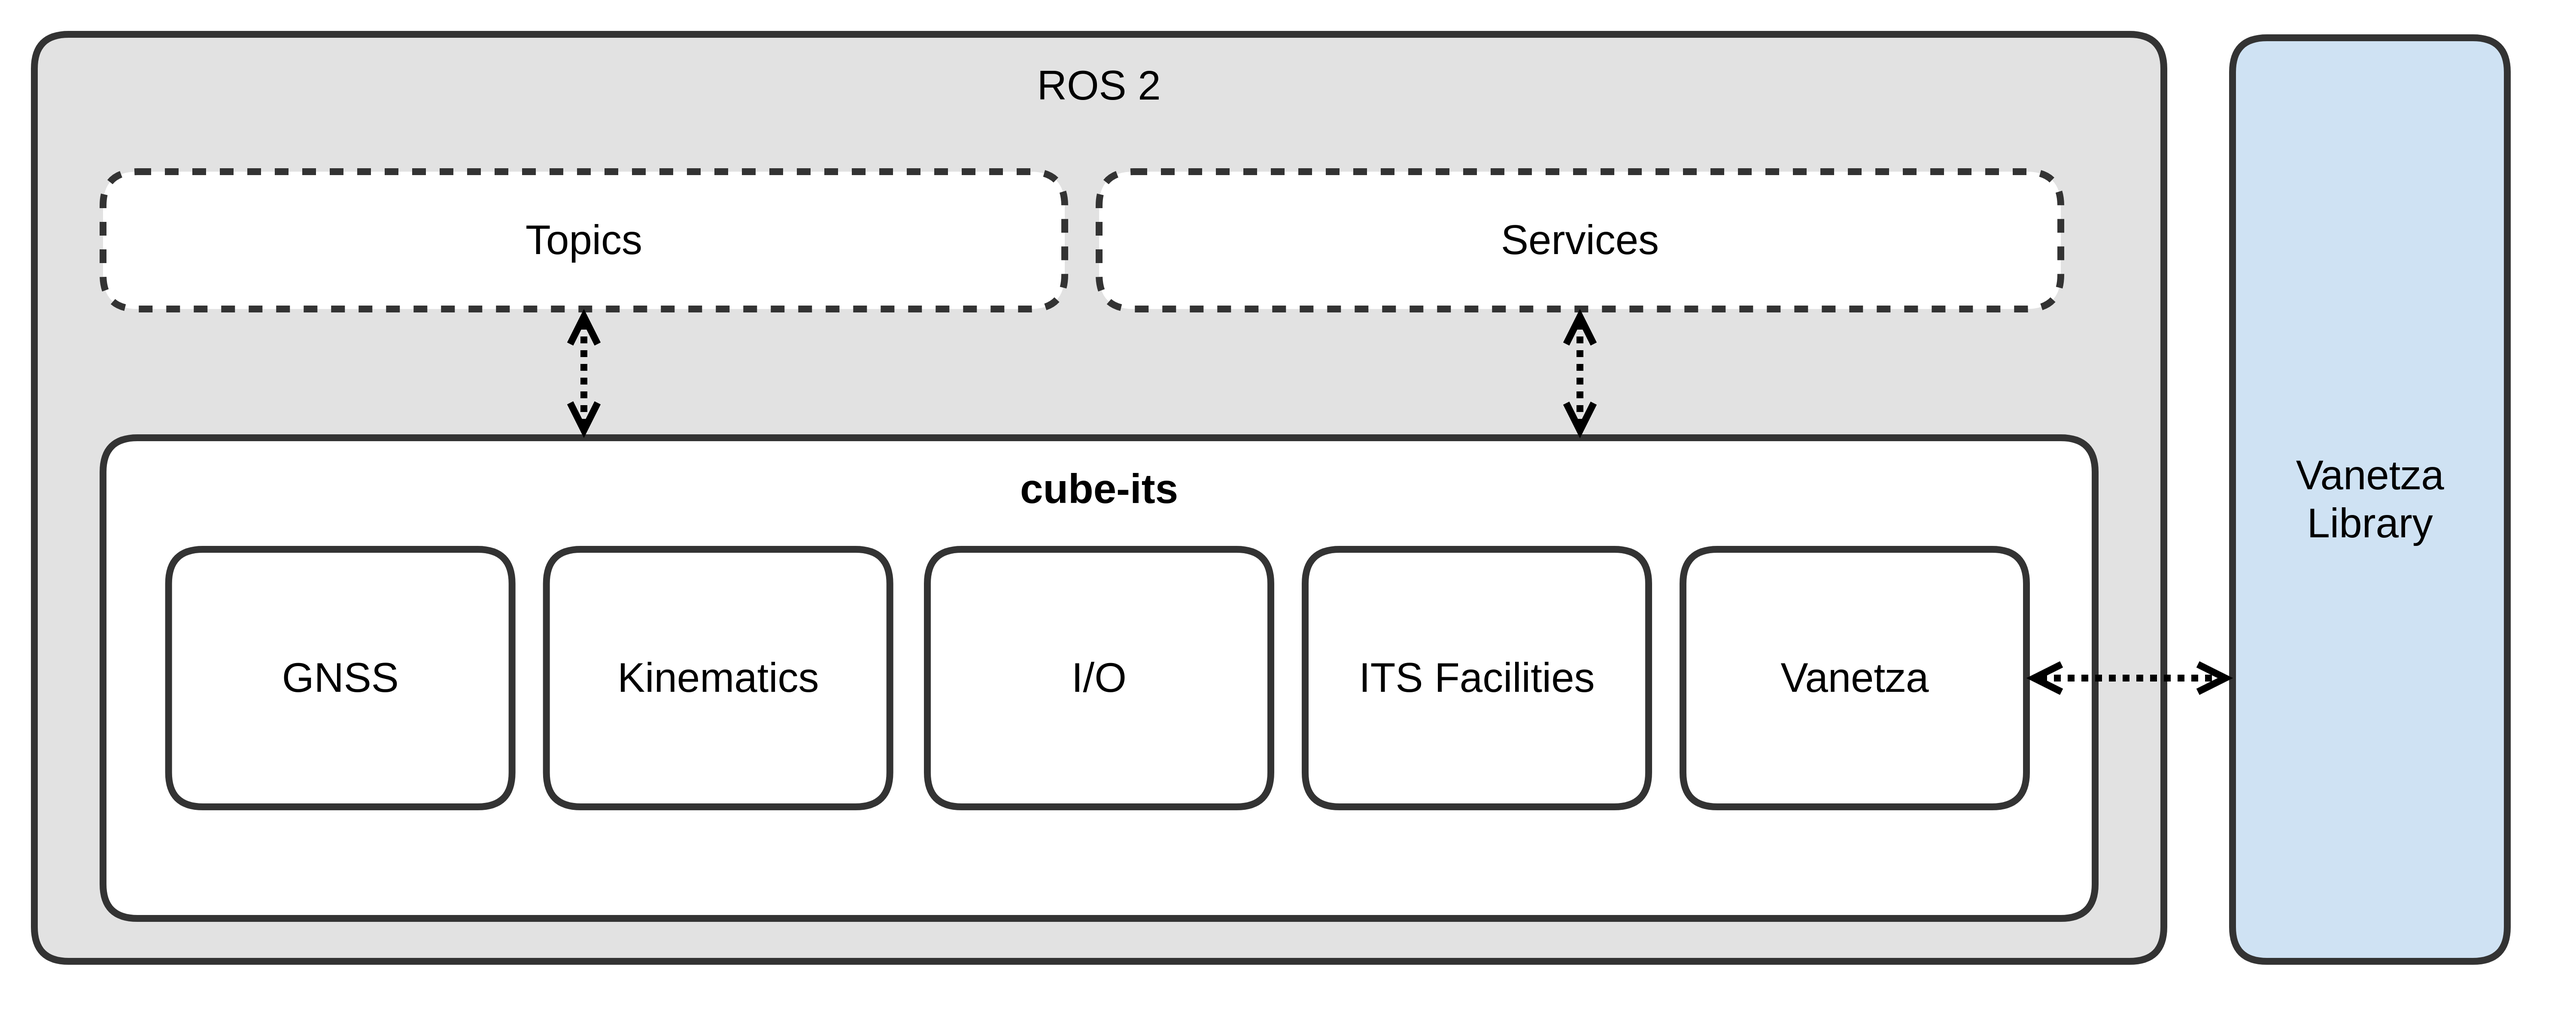
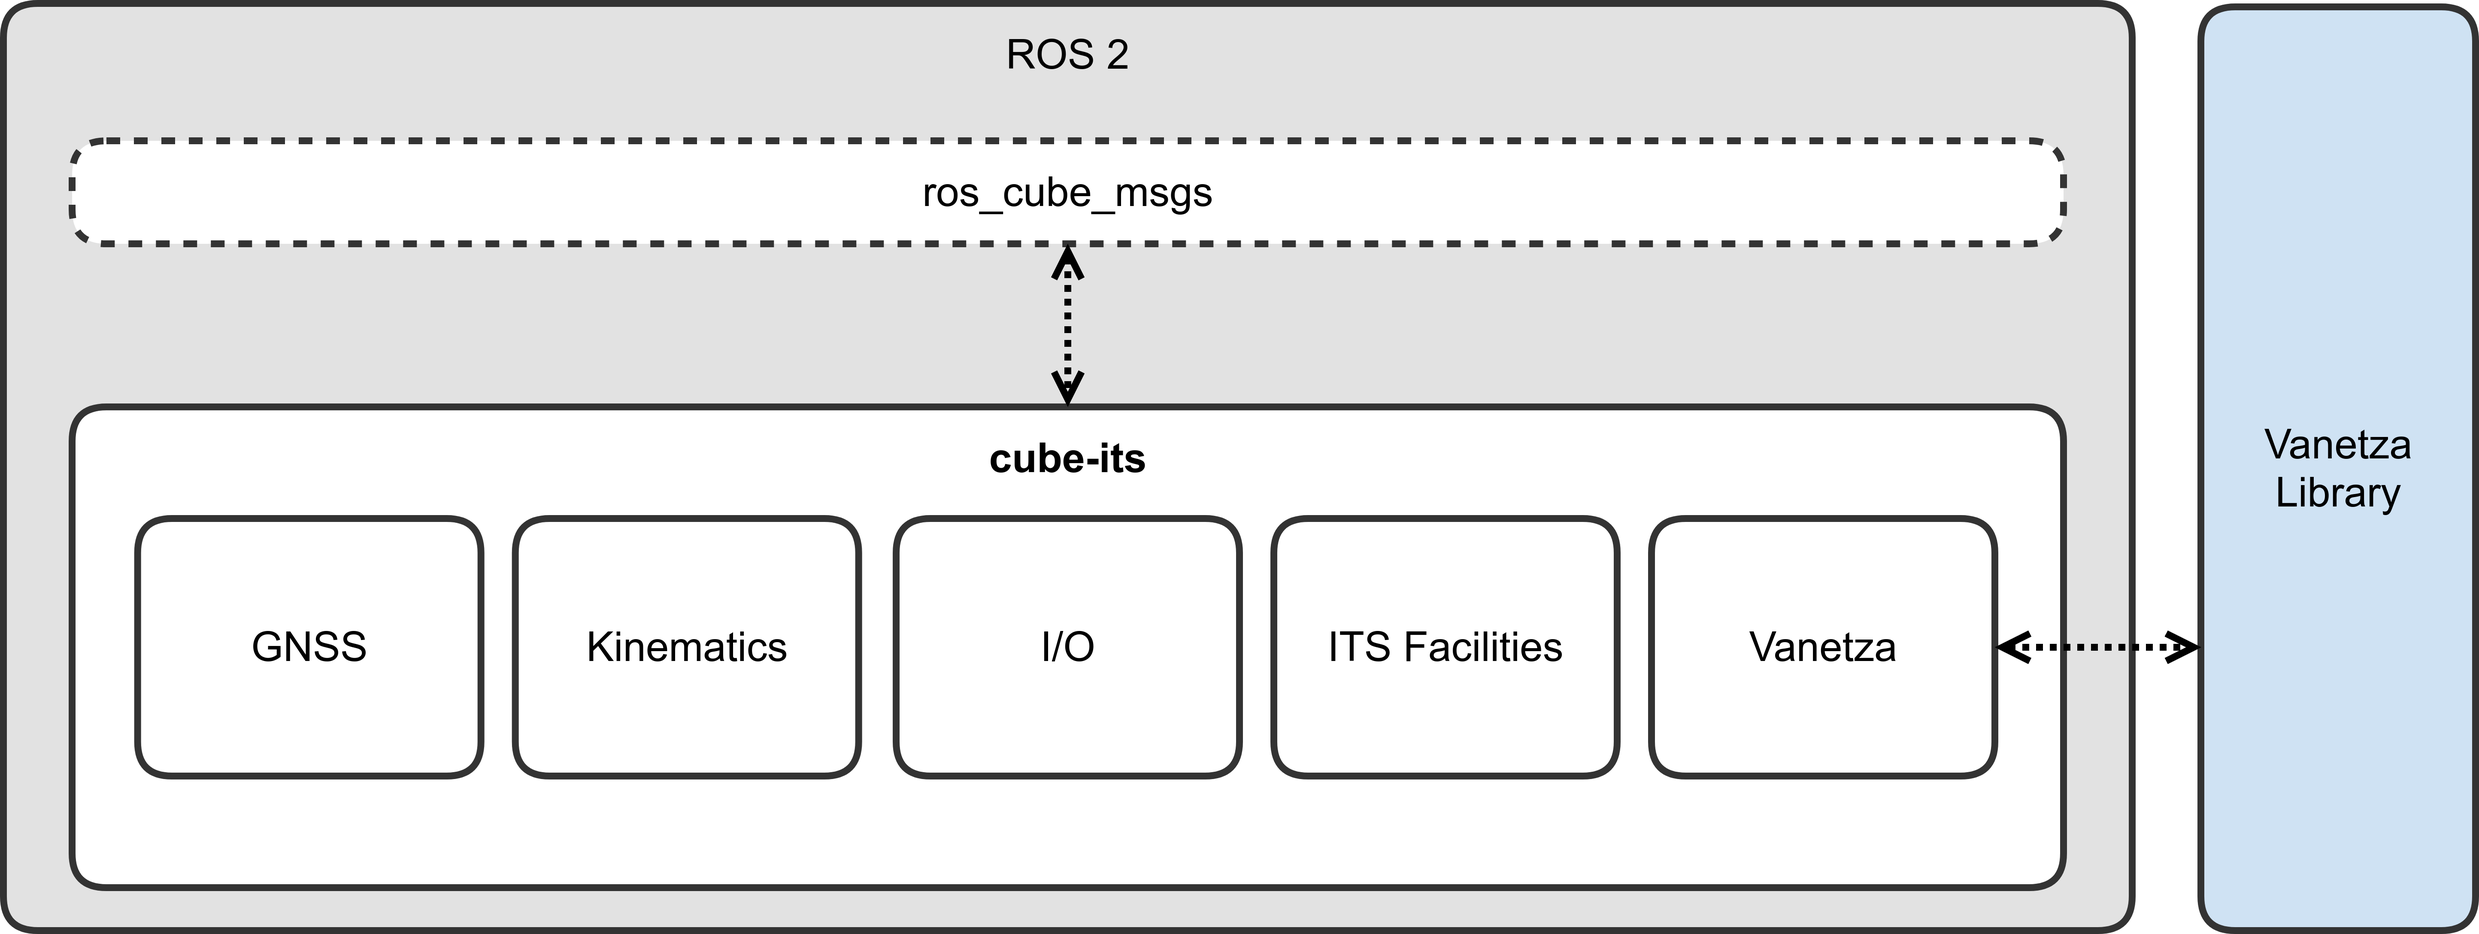
add interface section

diff --git a/README.md b/README.md
@@ -41,6 +41,14 @@ Furthermore, *cube-its* serves as a comprehensive platform for the development, 
 | ITS Facilities | Provides services and functionalities for intelligent transportation systems, including communication with traffic infrastructure and managing V2X communication. | 
 | Vanetza | Facilitates V2X communication by implementing the **[ETSI (European Telecommunications Standards Institute)](https://www.etsi.org) ITS-G5** protocol for vehicle and infrastructure communication. | 
 
+### Interfaces
+The `ros_cube_msgs` package provides a set of ROS message and service definitions for interacting with cube-its.  
+The package includes the following:
+ Name | Description |
+| --- | --- |
+| X | A | 
+| Y | B | 
+
 ### Compatible ETSI ITS messages
 
 The *cube-its* framework incorporates the [*etsi_its_messages*](https://github.com/ika-rwth-aachen/etsi_its_messages) package to facilitate the use of standardized ETSI ITS messages for V2X communication within ROS and ROS 2 environments. This integration enables developers to implement and manage V2X communication protocols, adhering to the ETSI specifications, within robotic and autonomous vehicle systems.
